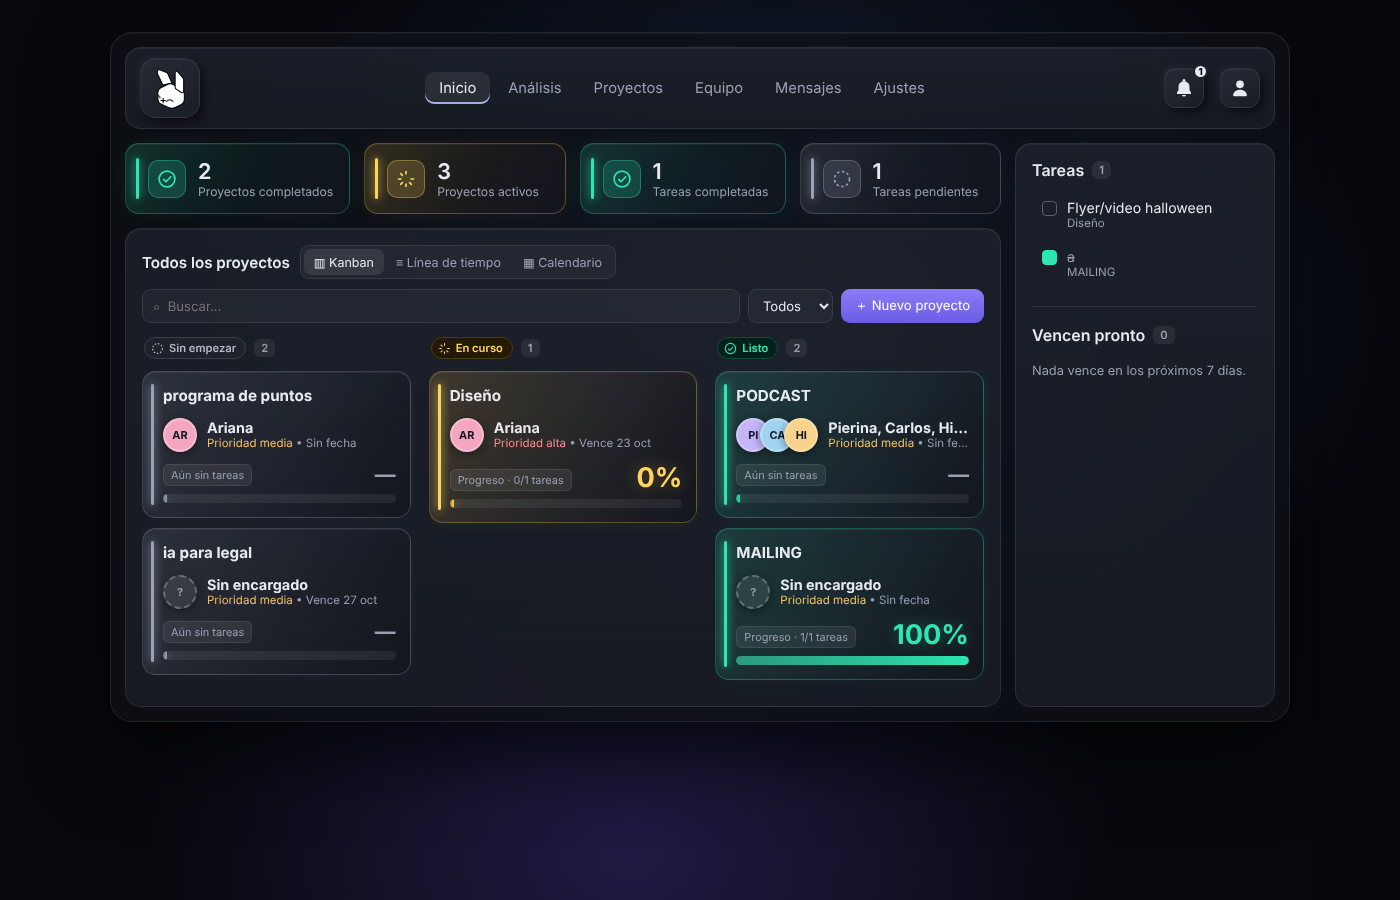
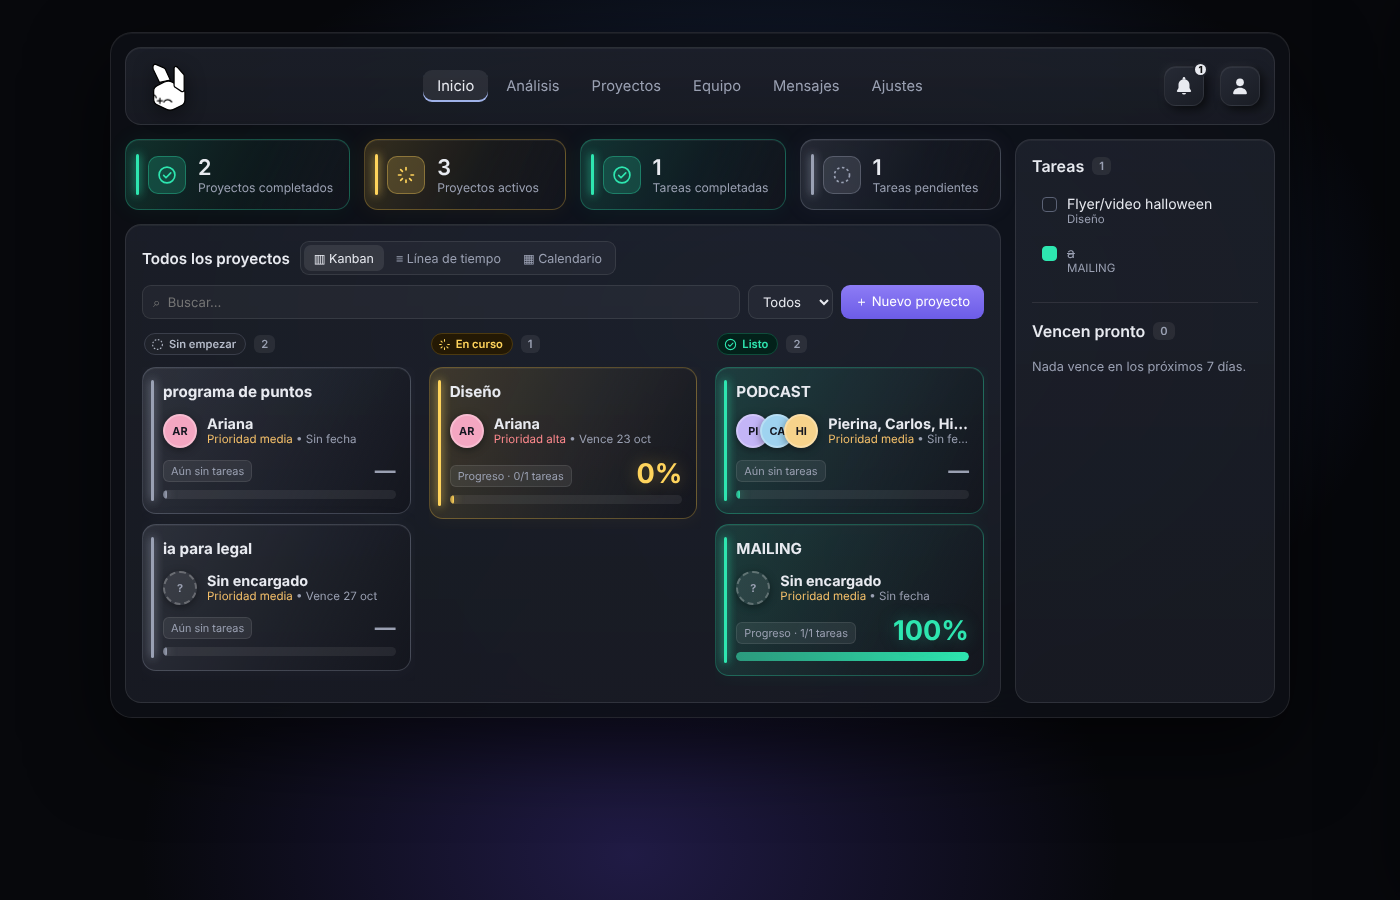
Panel: conejo sin recuadro
Claude-Session: https://claude.ai/code/session_01L8QtHgV8HSYntBJ1ppQiSV

diff --git a/borradores/panel.html b/borradores/panel.html
@@ -33,8 +33,9 @@
   }
   /* Barra superior */
   .barra { display: flex; align-items: center; gap: 16px; padding: 10px 14px; margin-bottom: 14px; }
-  .boton-neo.logo-caja { width: 60px; height: 60px; border-radius: 16px; flex: none; }
-  .logo-caja .logo { width: 44px !important; height: 44px !important; }
+  .boton-neo.logo-caja { width: 56px; height: 56px; flex: none; background: none; border: 0; box-shadow: none; }
+  .boton-neo.logo-caja:active { box-shadow: none; }
+  .logo-caja .logo { width: 52px !important; height: 52px !important; filter: drop-shadow(0 4px 10px rgba(0,0,0,.45)); }
   .logo { width: 44px; height: 44px; flex: none; display: block; }
   .logo .ojos { transform-origin: 32px 51px; animation: parpadeo 5s infinite; }
   @keyframes parpadeo { 0%, 92%, 100% { transform: scaleY(1); } 95% { transform: scaleY(.1); } }
